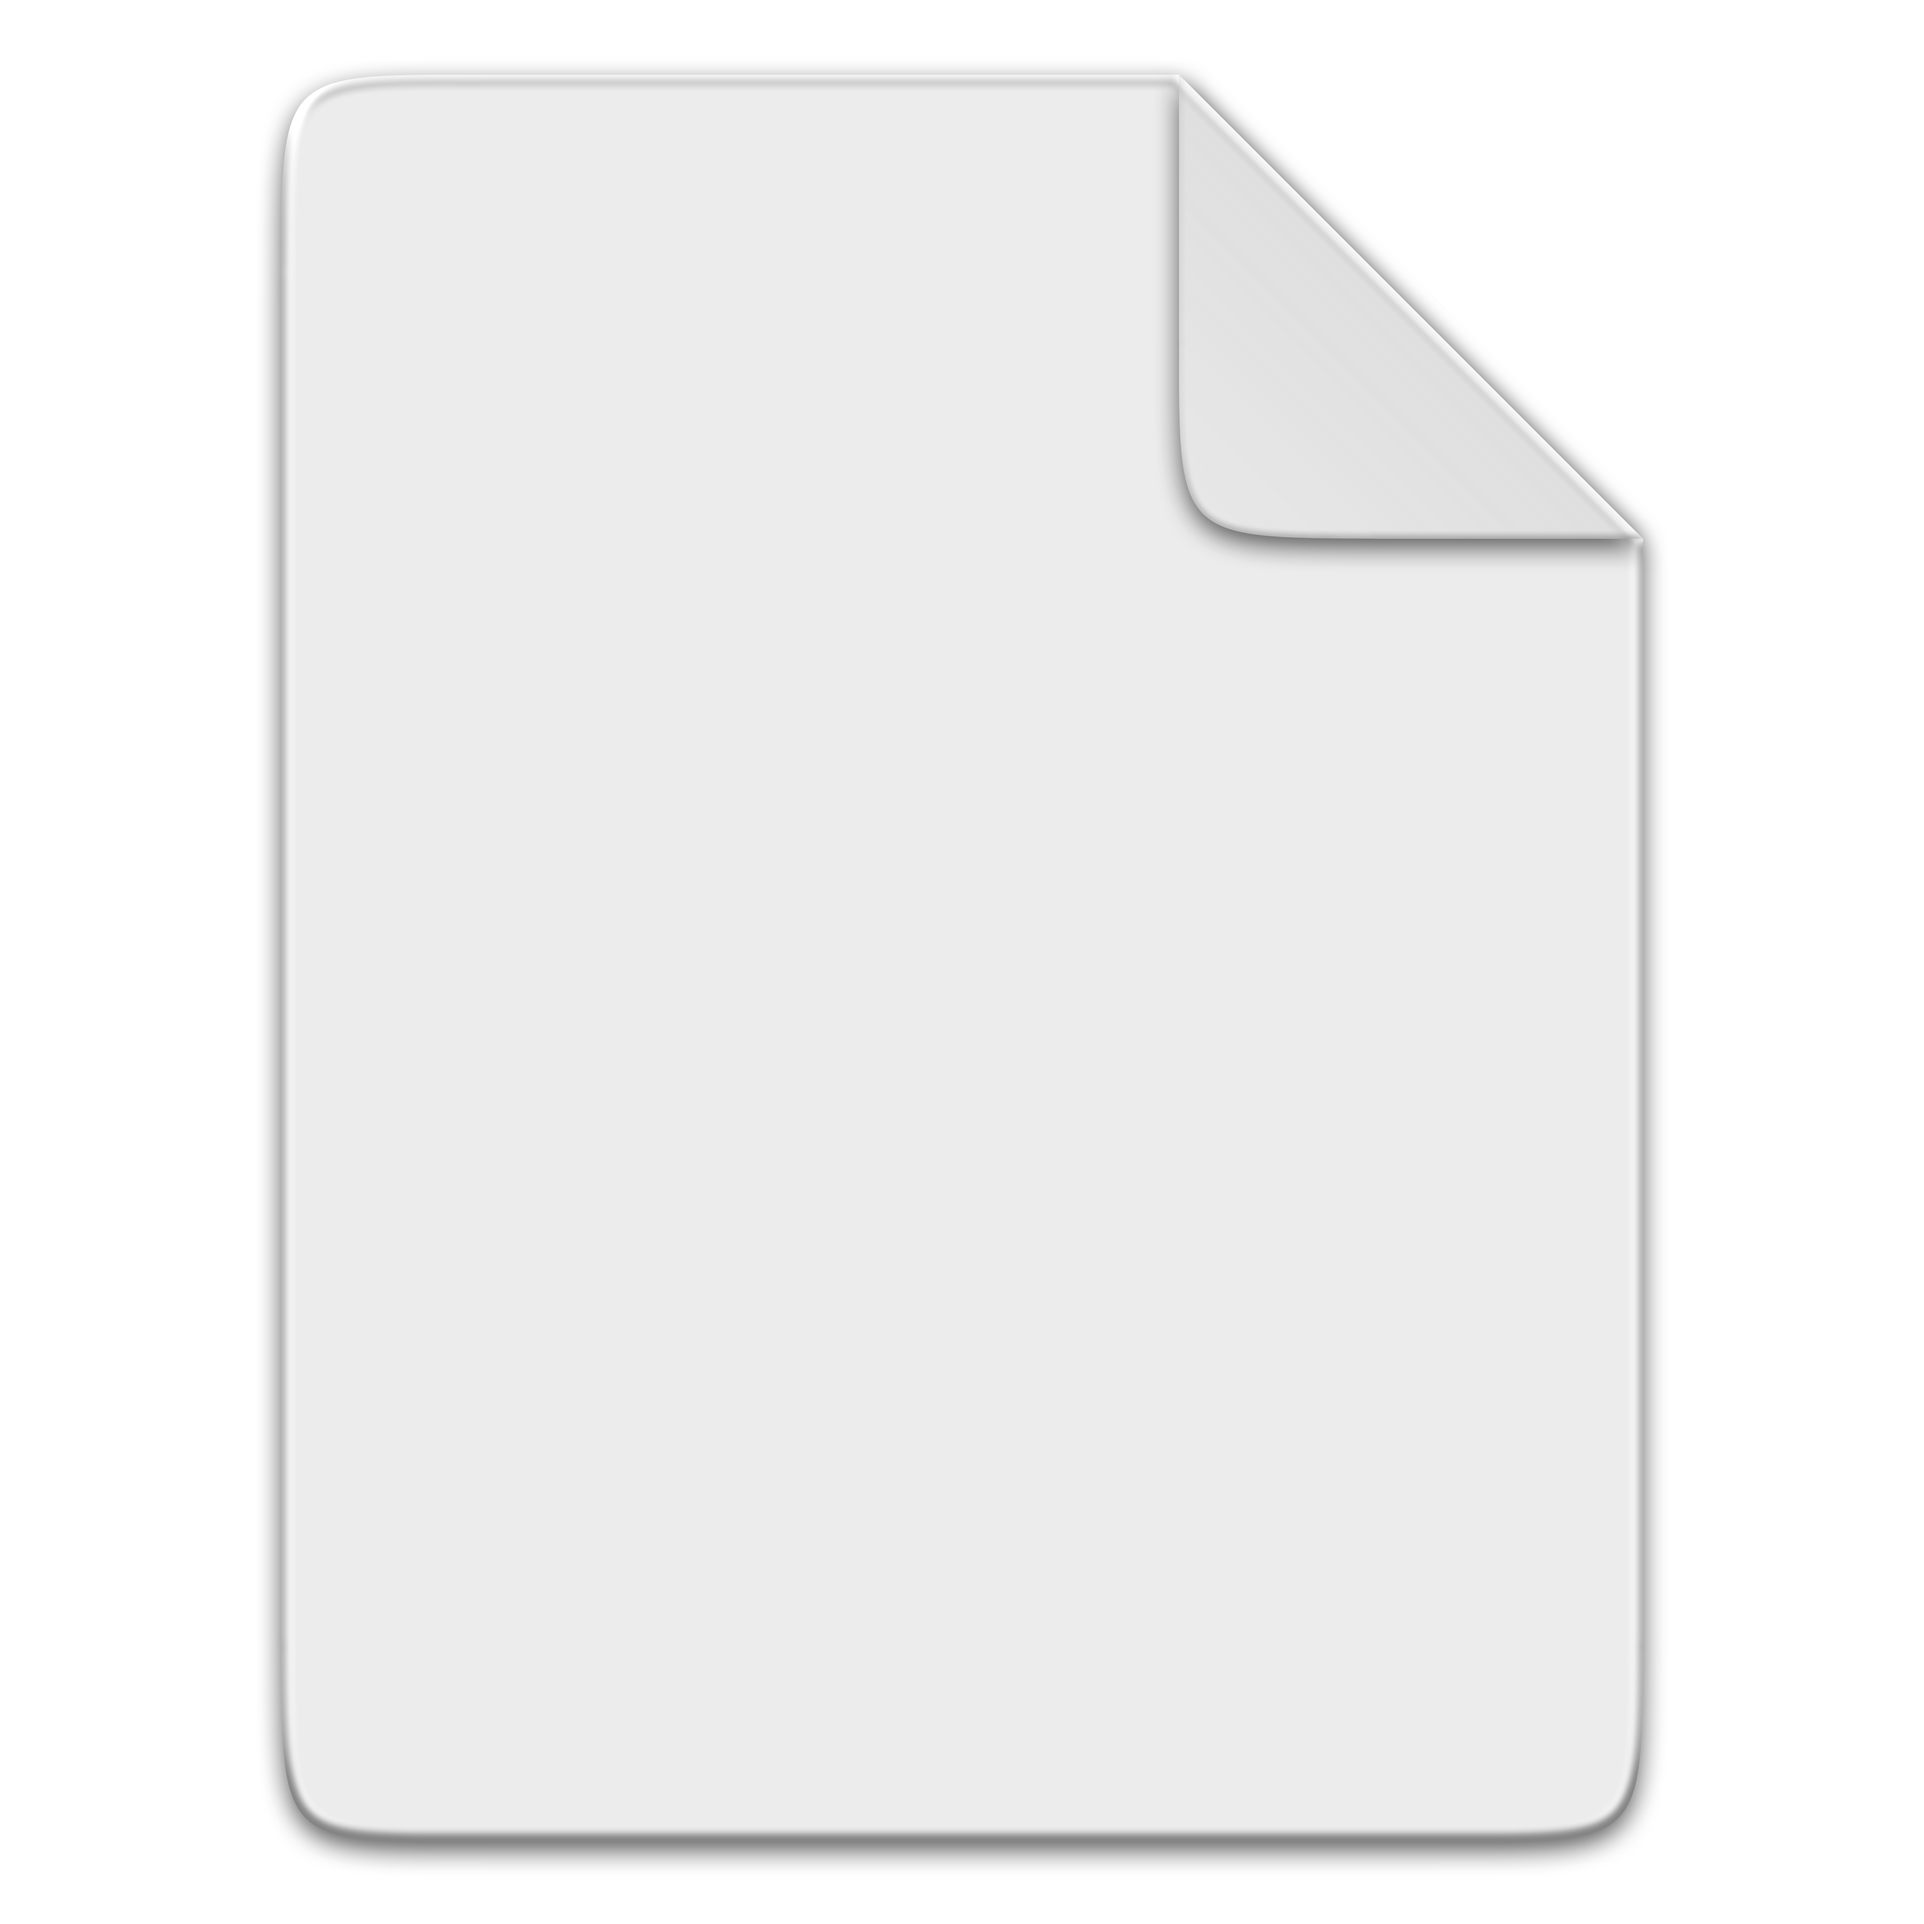
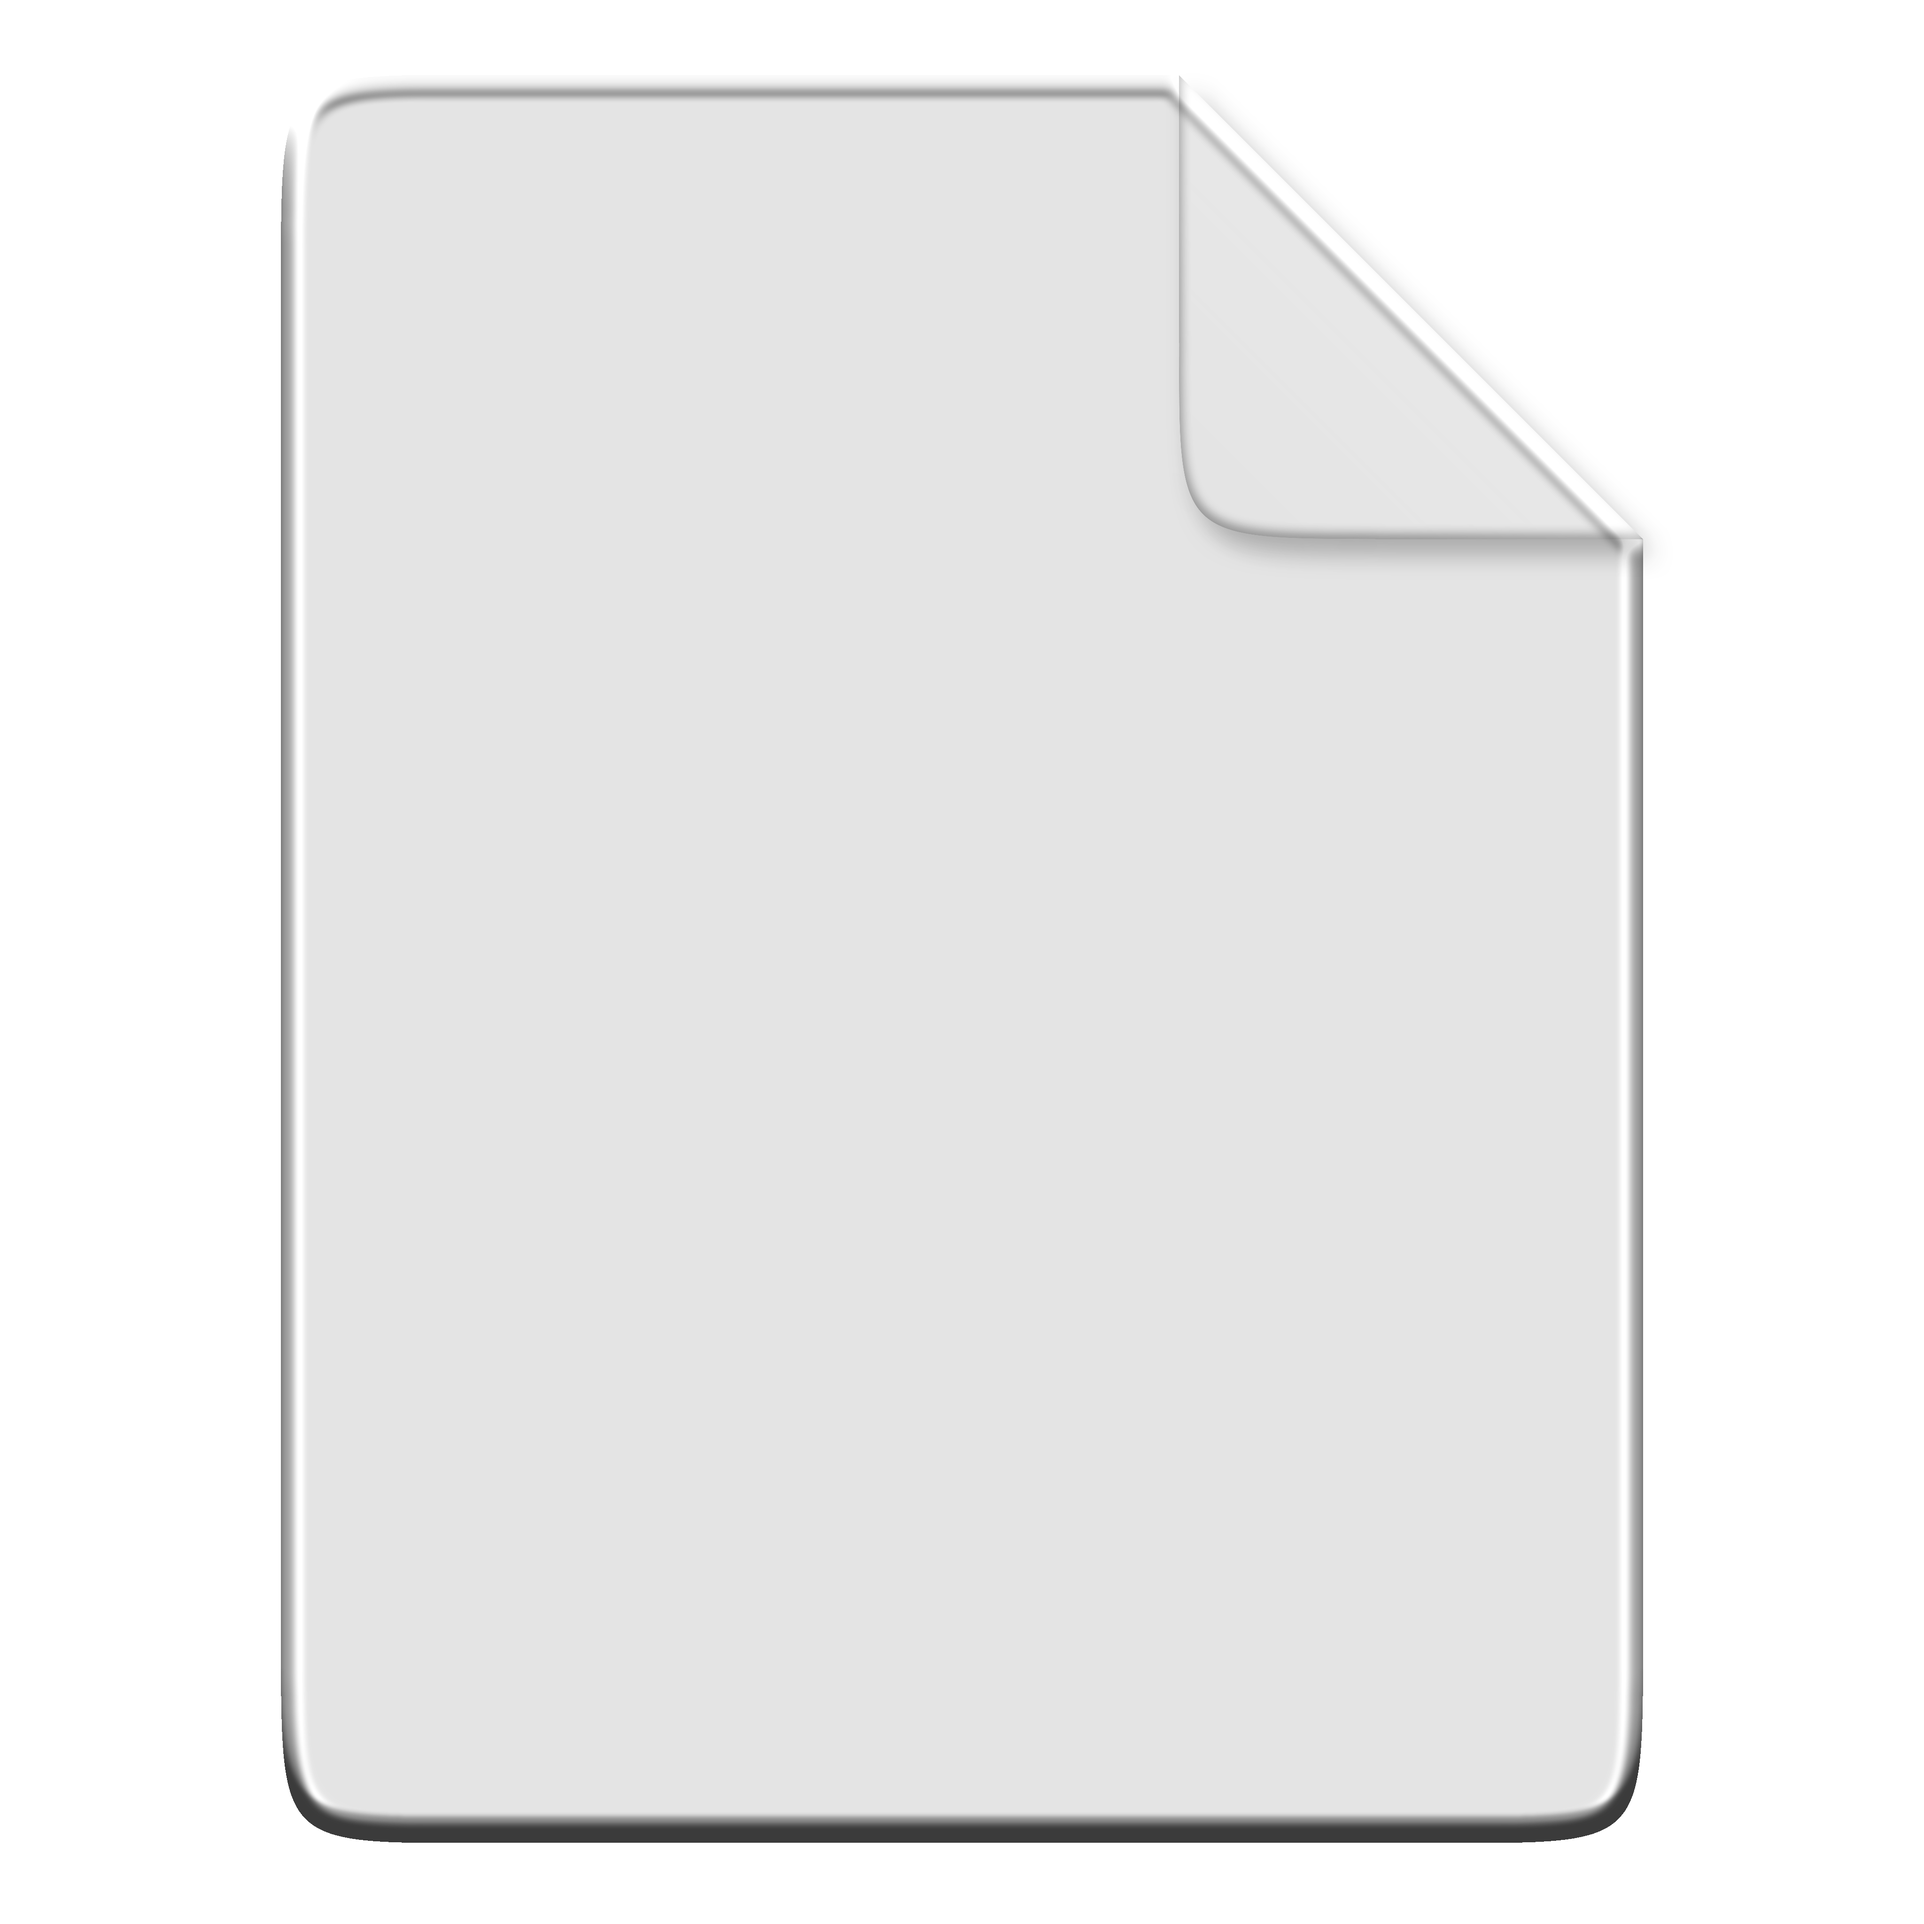
feat(render): use Photoshop Overlay blend for efx layer
Replace normal alpha compositing with W3C separable Overlay blend,
matching editor canvas behavior. Bump RENDER_VERSION to 1.1.0.

diff --git a/src/lib/render.js b/src/lib/render.js
@@ -12,7 +12,7 @@ const {
 } = require("./assets");
 const { buildFill } = require("./fill");
 
-const RENDER_VERSION = "1.0.0";
+const RENDER_VERSION = "1.1.0";
 
 function xmlEscape(value) {
   return String(value)
@@ -104,6 +104,35 @@ function overlayLayer(dst, src, size) {
     dst[i + 2] = Math.round(
       (src[i + 2] * sa + dst[i + 2] * da * (1 - sa)) / oa,
     );
+    dst[i + 3] = Math.round(oa * 255);
+  }
+}
+
+function overlayChannel(backdrop, source) {
+  return backdrop <= 0.5
+    ? 2 * backdrop * source
+    : 1 - 2 * (1 - backdrop) * (1 - source);
+}
+
+/** Photoshop-style Overlay blend (W3C separable blend + source-over). */
+function overlayBlendLayer(dst, src) {
+  for (let i = 0; i < dst.length; i += 4) {
+    const sa = src[i + 3] / 255;
+    if (sa <= 0) continue;
+    const da = dst[i + 3] / 255;
+    const oa = sa + da * (1 - sa);
+    if (oa <= 0) {
+      dst[i + 3] = 0;
+      continue;
+    }
+    for (let c = 0; c < 3; c++) {
+      const s = src[i + c] / 255;
+      const b = dst[i + c] / 255;
+      const blended = overlayChannel(b, s);
+      const sourceColor = (1 - da) * s + da * blended;
+      const co = sa * sourceColor + da * (1 - sa) * b;
+      dst[i + c] = Math.round((co / oa) * 255);
+    }
     dst[i + 3] = Math.round(oa * 255);
   }
 }
@@ -275,7 +304,7 @@ async function renderConfig(config, options = {}) {
   });
 
   const out = colorizeBase(base.data, id.data, fillByKey, size);
-  overlayLayer(out, efx.data, size);
+  overlayBlendLayer(out, efx.data);
 
   const svg = await stickerSvg(config, size, assetDir);
   if (svg) {

diff --git a/src/editor/renderer.js b/src/editor/renderer.js
@@ -496,7 +496,11 @@
       const canvas = makeCanvas(size, size);
       const ctx = canvas.getContext("2d");
       ctx.putImageData(out, 0, 0);
+      // efx is a Photoshop-style Overlay shading layer, not a normal alpha layer.
+      ctx.save();
+      ctx.globalCompositeOperation = "overlay";
       ctx.drawImage(efx, 0, 0);
+      ctx.restore();
       this.baseCache = { key: baseKey, canvas };
       return canvas;
     }

diff --git a/README.md b/README.md
@@ -54,8 +54,8 @@ src/lib/art.js                   # 网格 TOML / SVG 生成与缓存
 1. `base` 位于最底层，提供形状与透明度。
 2. 用 `id` 图划分着色区域：红色通道 → `RedId`，绿色通道 → `GreenId`，蓝色通道 → `BlueId`。同一像素的通道比例会混合，抗锯齿边缘不会出现硬边。
 3. 按 ID 的着色方式填充这些区域。
-4. 叠加半透明的 `efx`，完成高光、描边和阴影。
-5. 从下到上依次绘制 `stickers` 贴画。
+4. 以 Photoshop 的 **Overlay（叠加）** 混合模式叠加半透明 `efx`：暗部更暗、亮部更亮，同时保留底层色相，完成高光、描边和阴影。
+5. 从下到上依次绘制 `stickers` 贴画（贴画使用普通 alpha 合成，不参与 efx 的叠加混合）。
 
 `doc-base` 中 `GreenId` 是主色（纸张主体），`BlueId` 是辅助色（折角）。
 
